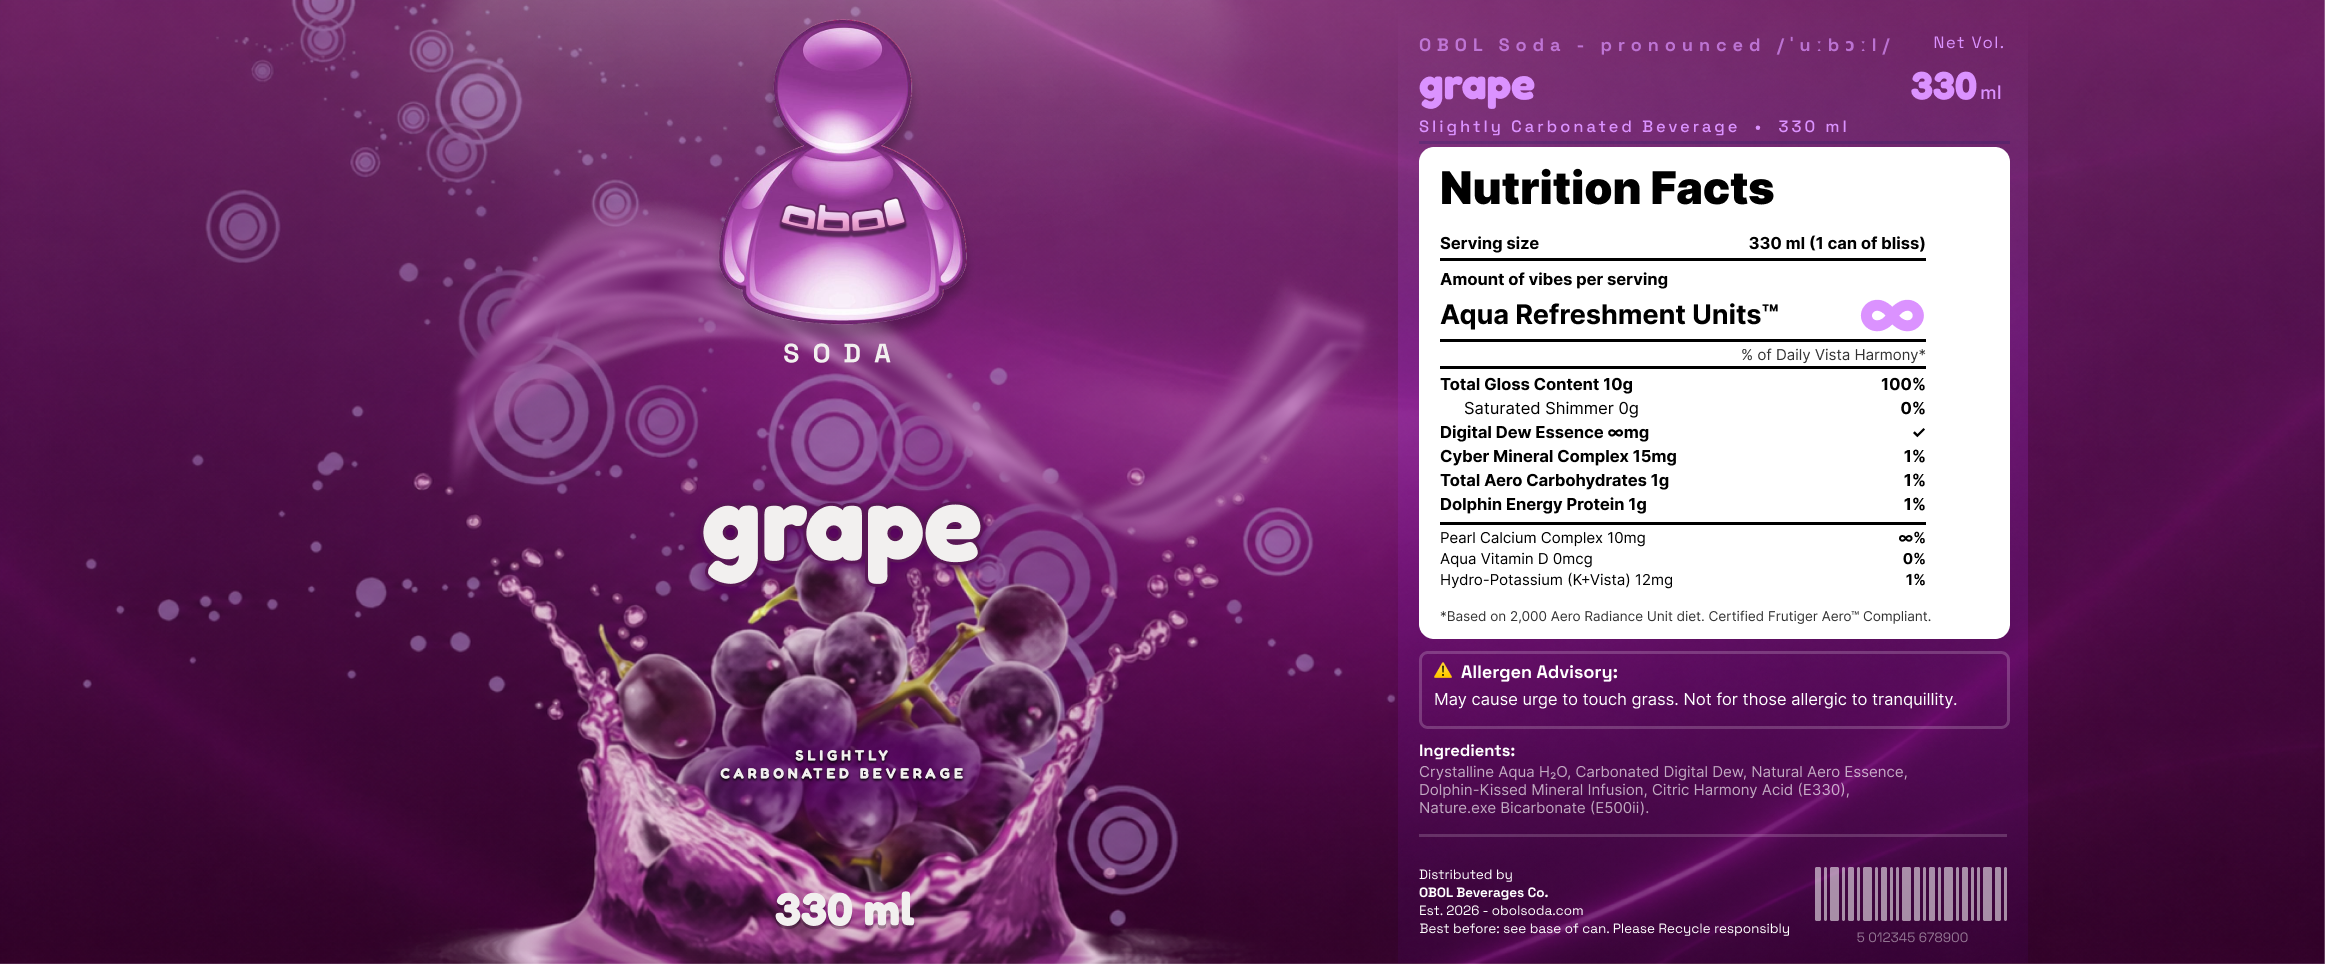
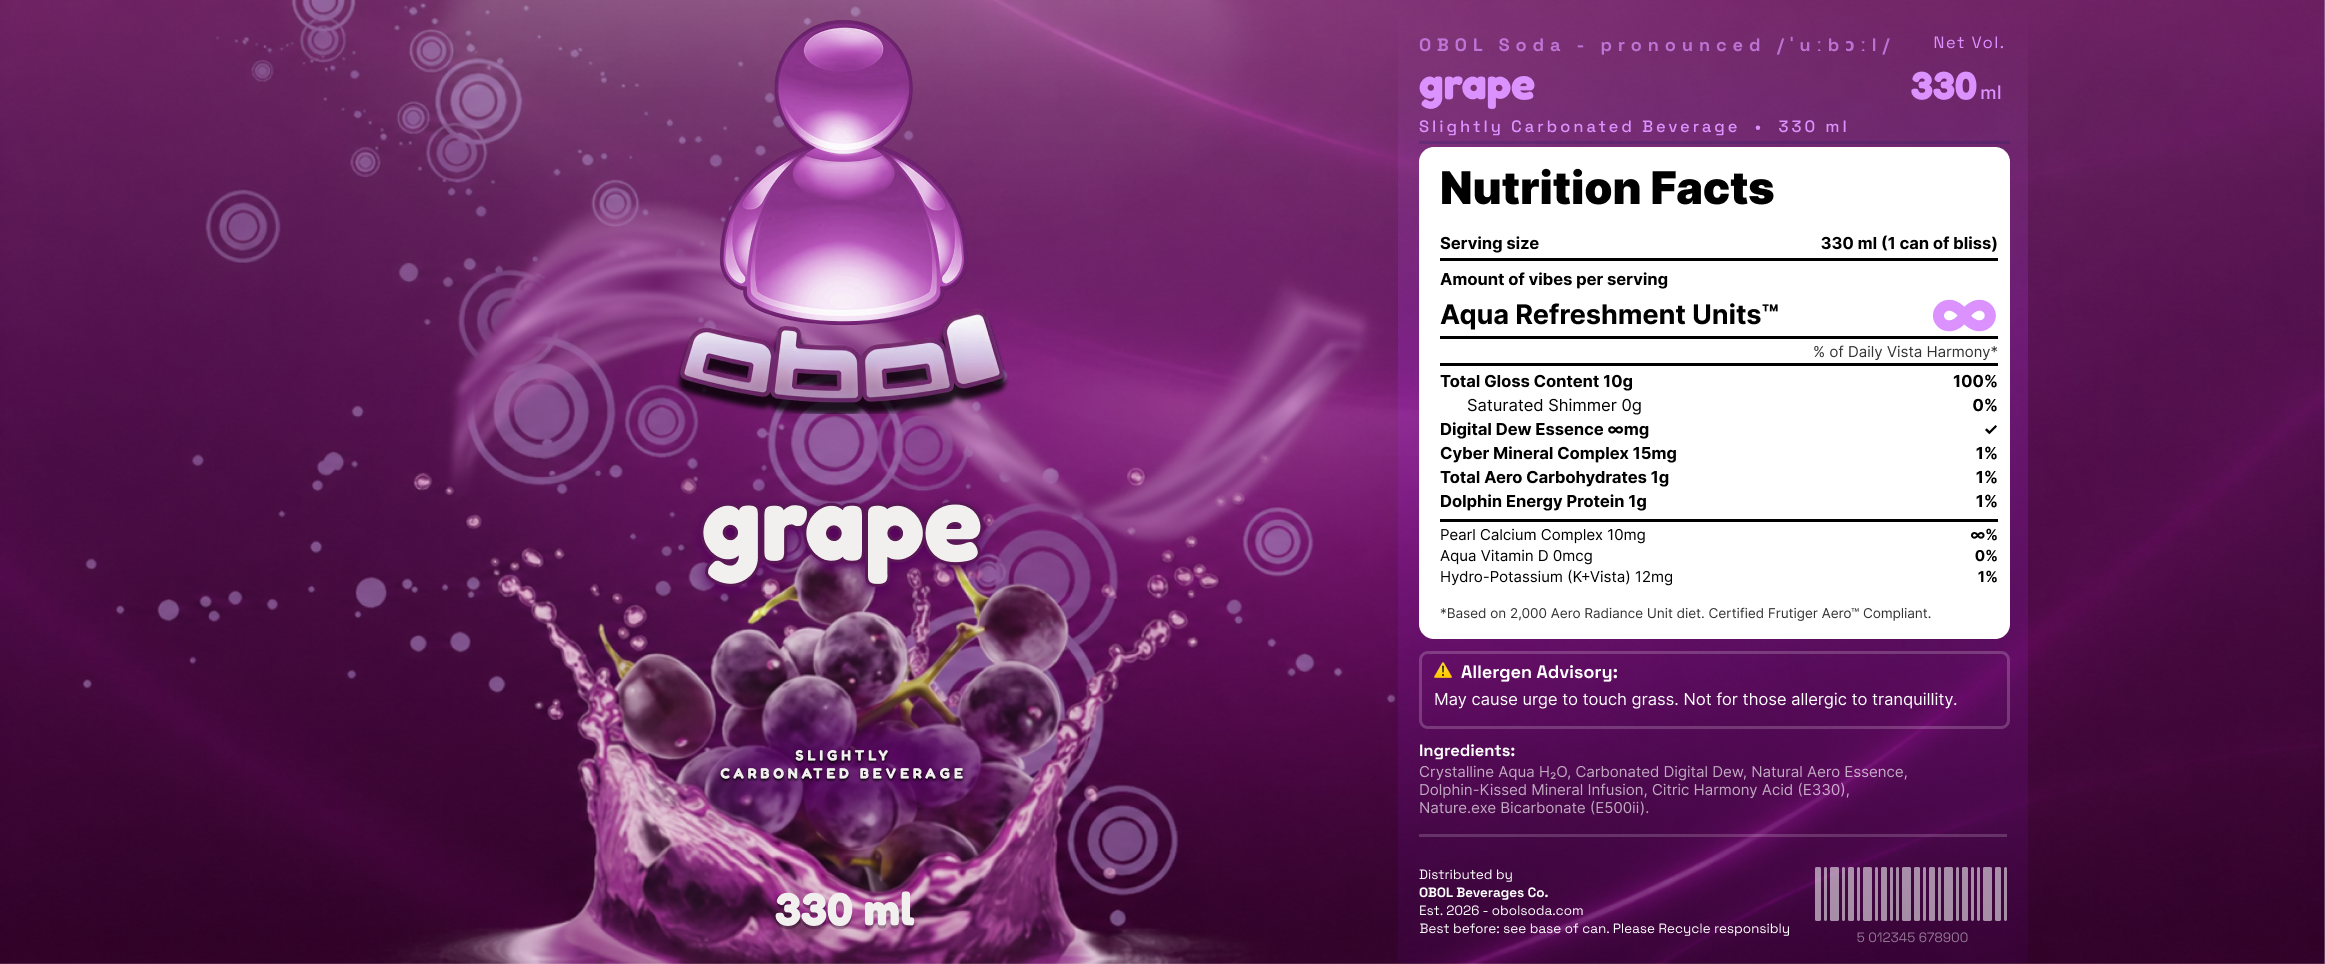
Replace label textures from final/ and bump asset cache key

diff --git a/index.html b/index.html
@@ -397,7 +397,7 @@
     ];
 
     /** Bump when binaries on GitHub Pages change — avoids stale cached PNG/GLB/audio. */
-    const ASSET_VERSION = '20260513';
+    const ASSET_VERSION = '20260514-final';
     const assetUrl = (file) => `${file}?v=${ASSET_VERSION}`;
 
     /* ─────────────────────────────────────────────────────
